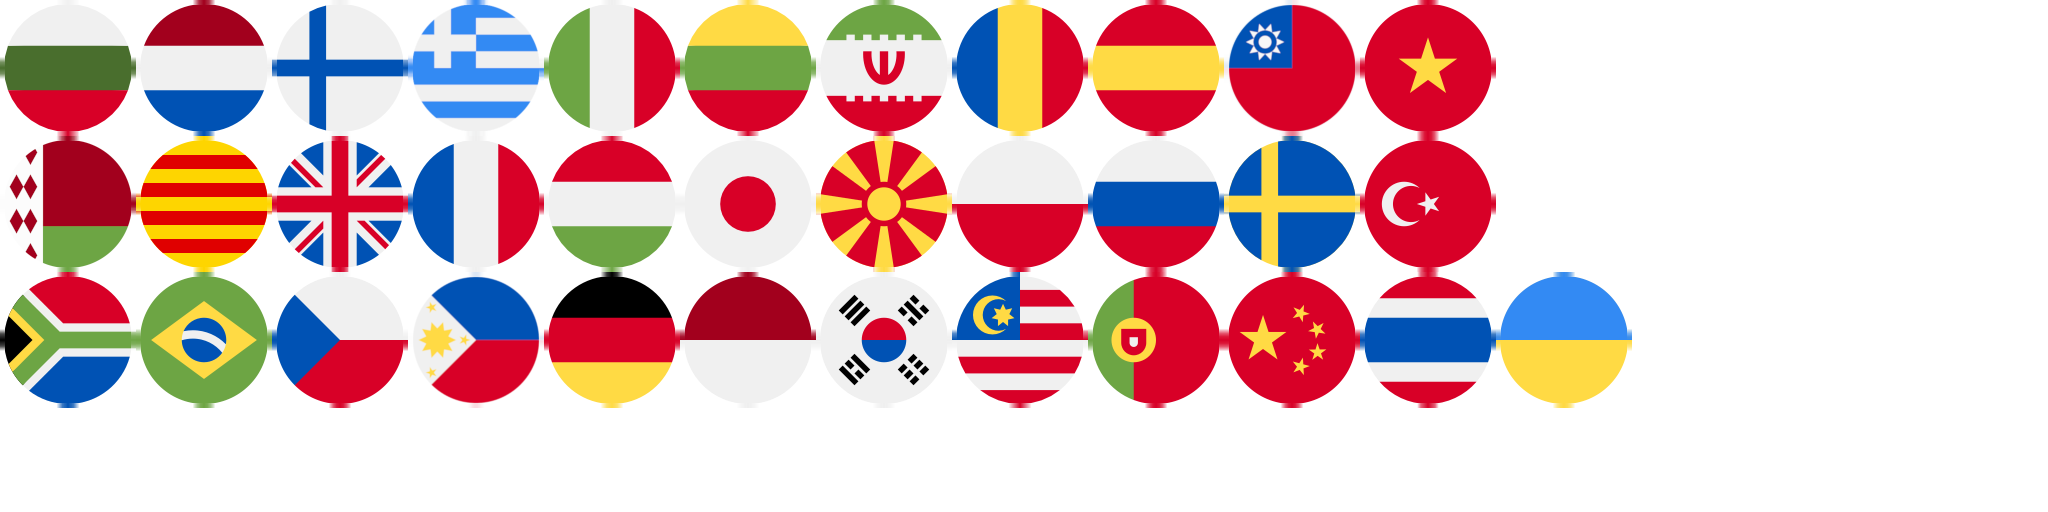
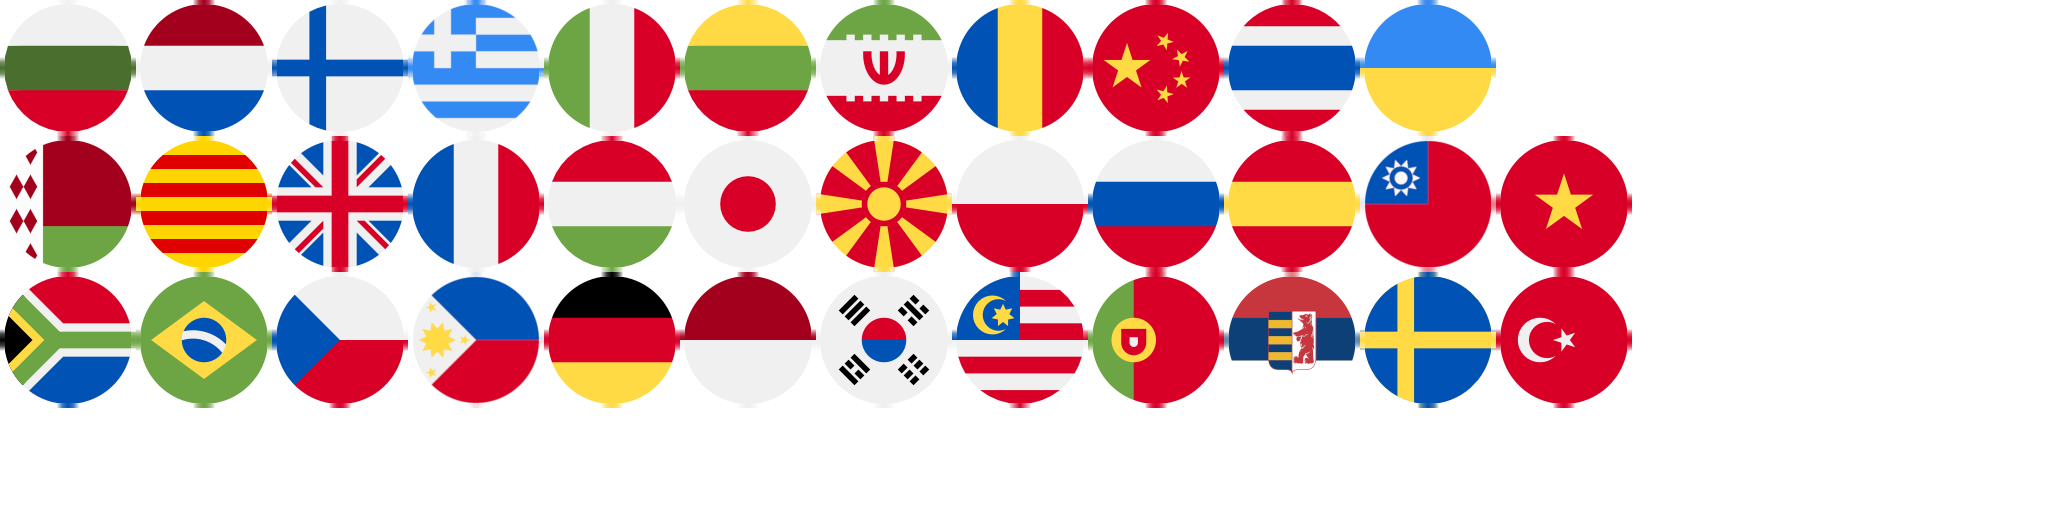
Add a flag for Rusyn

Changed region(s): [[0.5312, 0.0, 0.8125, 0.8125]]

diff --git a/docs/Credits.md b/docs/Credits.md
@@ -5,6 +5,7 @@
 Flag Icons made by [Freepik](https://www.flaticon.com/authors/freepik) from [www.flaticon.com](https://www.flaticon.com) and licensed by Creative Commons 3.0, except for:
 
 -   [Catalan flag] by J0anJosep licensed under Public Domain
+-   [Rusyn flag] gimped from the wikipedia flag [Flag of Pannonian Rusyns](https://en.wikipedia.org/wiki/File:Flag_of_Rusyns_in_Serbia.svg) (CC-BY-SA 4.0)
 
 New Unciv logo made by u-ndefined on Discord
 
